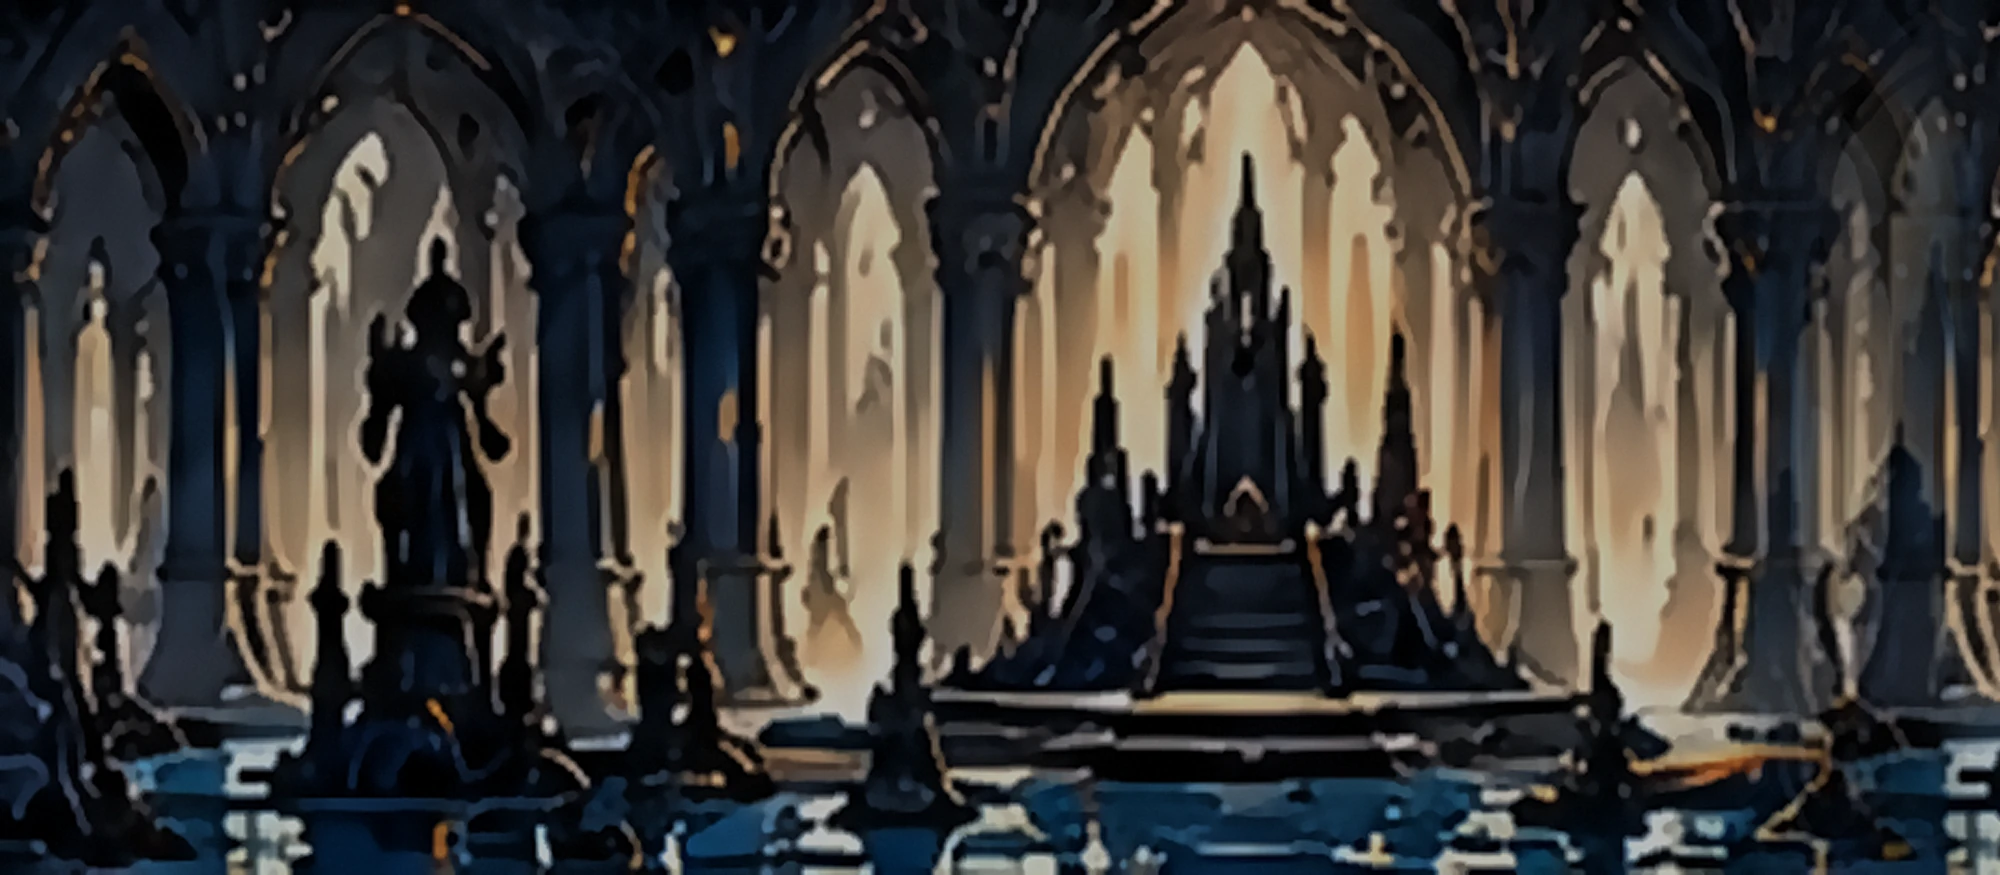
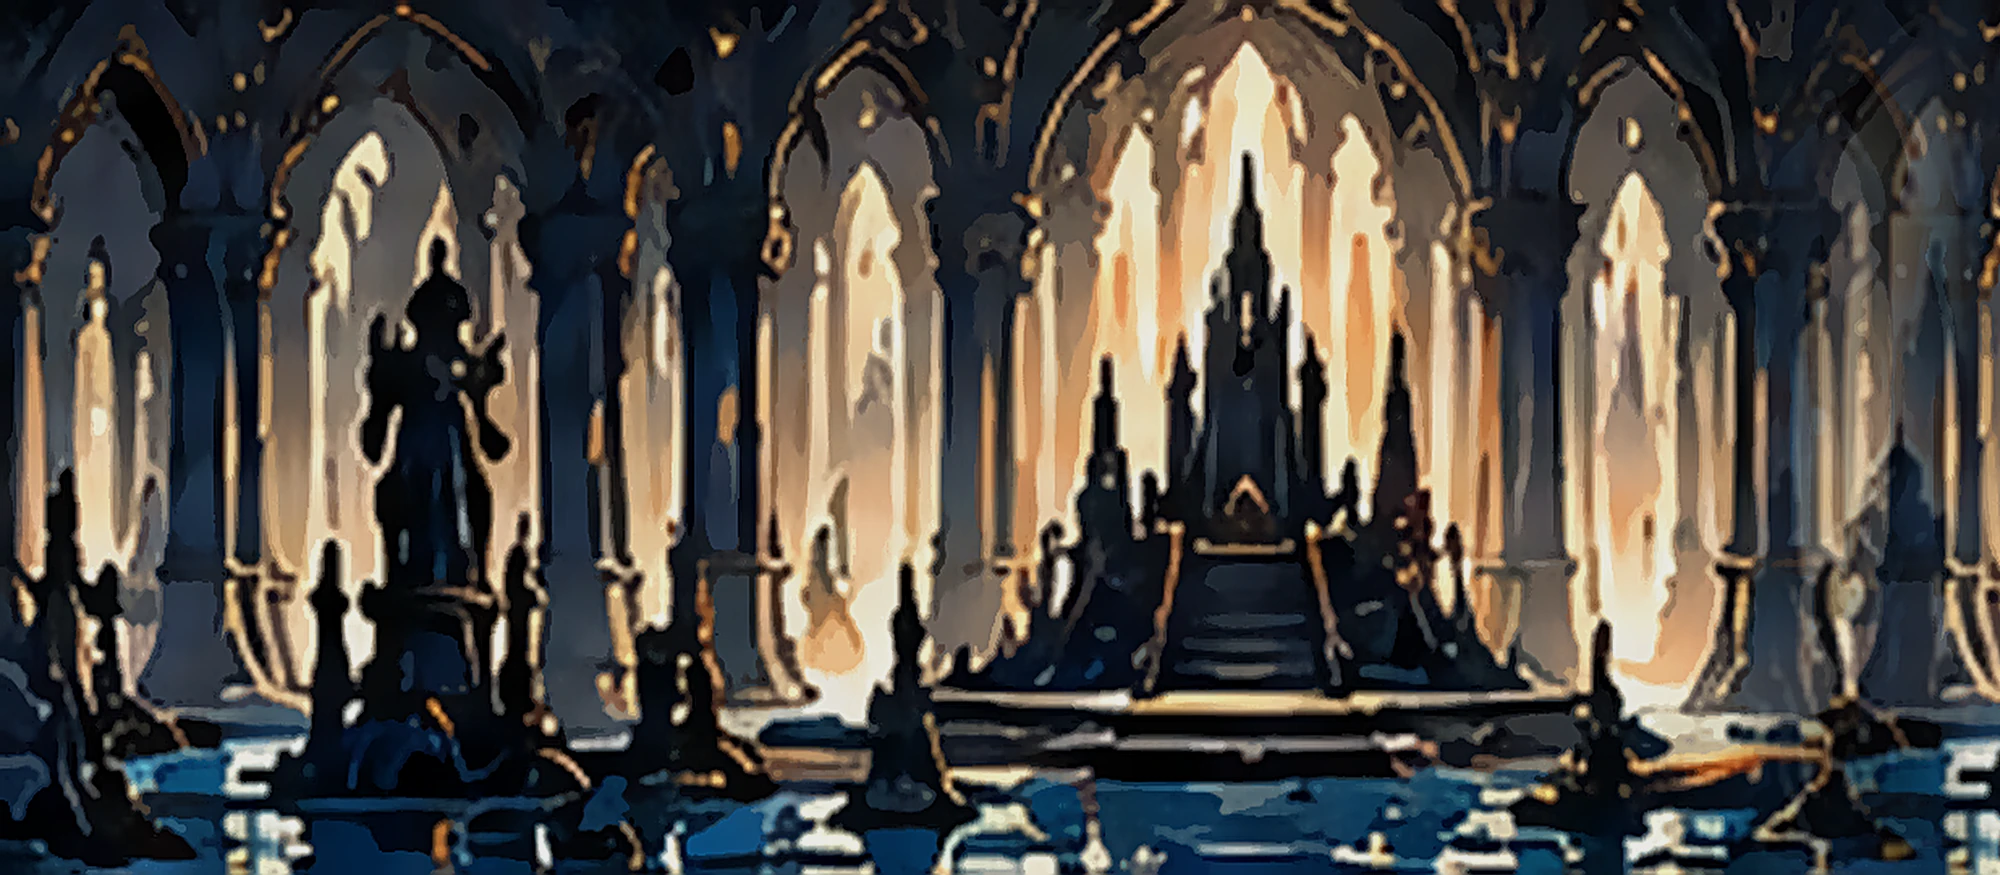
Backgrounds and borders made clear: cel-flattened concept pictures with firm edges, thinner overlay layers, lighter textured rock and light lines on both sides of every terrain border
Claude-Session: https://claude.ai/code/session_014C3QCoNRwGQxttT4zUyKpo

diff --git a/duskwell/js/art_world.js b/duskwell/js/art_world.js
@@ -81,10 +81,10 @@ Art.renderLevel = function (L, s) {
     for (let j = -2; j <= 2; j++) for (let i = -2; i <= 2; i++) if (!isS(x + i, y + j)) air++;
     const v = hash2(x, y, seed);
     const depth = clamp(air / 10, 0, 1);
-    g.fillStyle = mix(mix(th.tile, '#000000', 0.42 - depth * 0.26), th.hi, v * 0.018);
+    g.fillStyle = mix(mix(th.tile, '#000000', 0.26 - depth * 0.16), th.hi, 0.06 + v * 0.035);
     g.fillRect(x * TILE - 0.5, y * TILE - 0.5, TILE + 1, TILE + 1);
-    if (v > 0.6 && depth > 0.2) {            // rounded pebbles in the rock face
-      g.fillStyle = rgba(th.hi, 0.05); ellipse(g, x * TILE + 8 + v * 16, y * TILE + 10 + v * 10, 6 + v * 5, 4 + v * 3); g.fill();
+    if (v > 0.45) {                           // rounded pebbles in the rock face, also deep inside so a mass of rock is never a flat black
+      g.fillStyle = rgba(th.hi, 0.08 + depth * 0.03); ellipse(g, x * TILE + 8 + v * 16, y * TILE + 10 + v * 10, 6 + v * 5, 4 + v * 3); g.fill();
       g.strokeStyle = 'rgba(0,0,0,0.25)'; g.lineWidth = 1.5; g.stroke();
     }
   }
@@ -114,6 +114,20 @@ Art.renderLevel = function (L, s) {
     if (eB) { g.moveTo(px, py + TILE + wob(x, y + 1)); g.lineTo(px + TILE, py + TILE + wob(x + 1, y + 1)); }
     if (eL) { g.moveTo(px + wob(x, y + 3), py); g.lineTo(px + wob(x, y + 4), py + TILE); }
     if (eR) { g.moveTo(px + TILE + wob(x + 1, y + 3), py); g.lineTo(px + TILE + wob(x + 1, y + 4), py + TILE); }
+    g.stroke();
+    // the border read clearly against any background: a light line just inside the ink, and a faint light line just outside it
+    g.lineCap = 'round';
+    g.strokeStyle = rgba(th.hi, 0.5); g.lineWidth = 1.6; g.beginPath();
+    if (!eT) { /* the top rim is drawn above */ } else { g.moveTo(px + 1, py + 4.5); g.lineTo(px + TILE - 1, py + 4.5); }
+    if (eL) { g.moveTo(px + 4.5, py + (eT ? 6 : 0)); g.lineTo(px + 4.5, py + TILE - (eB ? 6 : 0)); }
+    if (eR) { g.moveTo(px + TILE - 4.5, py + (eT ? 6 : 0)); g.lineTo(px + TILE - 4.5, py + TILE - (eB ? 6 : 0)); }
+    if (eB) { g.moveTo(px + 1, py + TILE - 4.5); g.lineTo(px + TILE - 1, py + TILE - 4.5); }
+    g.stroke();
+    g.strokeStyle = rgba(th.hi, 0.3); g.lineWidth = 1.4; g.beginPath();
+    if (eT) { g.moveTo(px, py - 3.4); g.lineTo(px + TILE, py - 3.4); }
+    if (eL) { g.moveTo(px - 3.4, py); g.lineTo(px - 3.4, py + TILE); }
+    if (eR) { g.moveTo(px + TILE + 3.4, py); g.lineTo(px + TILE + 3.4, py + TILE); }
+    if (eB) { g.moveTo(px, py + TILE + 3.4); g.lineTo(px + TILE, py + TILE + 3.4); }
     g.stroke();
     themeDetail(g, th, L, x, y, px, py, v, eT, eB, isS);
     if (L.isIce(x, y)) {                         // slippery ice: a pale glaze with a bright streak
@@ -408,7 +422,7 @@ function drawCritters(g, th, camX, camY, t) {
 const PAINT_P = 1600, PAINT_H = 700, PAINT_TOP = -40, SKY_Z = 160, PAINT_KEEP = 3;
 // The sky layer of these areas is the owner's concept picture (tools/paint/import_concept.py): a whole scene, so the painted
 // silhouette layers over it are thinned (alpha per layer: sky, far, mid, near) to let it show while the play field stays readable.
-const CONCEPT_ALPHA = { default: [1, 0, 0.5, 0.85] };
+const CONCEPT_ALPHA = { default: [1, 0, 0.2, 0.35] };
 for (const k of ['town', 'cave', 'moss', 'spore', 'aqueduct', 'crystal', 'webbed', 'foundry', 'throne', 'frost', 'ember', 'storm', 'mirror', 'bone', 'lunar']) CONCEPT_ALPHA[k] = CONCEPT_ALPHA.default;
 const painted = new Map();             // theme -> { imgs, n, ready }, most recently used last
 Art.loadPainted = function (theme) {

diff --git a/duskwell/tools/paint/import_concept.py b/duskwell/tools/paint/import_concept.py
@@ -2,7 +2,7 @@
 """Turns the owner's background concept sheet (art/source/backgrounds_concept/sheet_all15_areas.png: 15 areas, each a wide picture
 plus Sky/Far/Mid/Near strips) into the game's backdrop layers.
 The strips are only ~140x30 px and carry their own opaque sky, so they cannot serve as layers; the big picture of each area (about
-315x129 px) is what is used: cropped, upscaled with a sharpened bicubic, given a fine painted grain, made to tile sideways, darkened
+315x129 px) is what is used: cropped, upscaled with a sharpened bicubic, flattened into clean cel colours with firm edges, made to tile sideways, darkened
 a little so the play field stays readable, and saved as art/bg/<theme>/sky.webp (the opaque back layer, 2000x875 = 1600x700 logical).
 Row 5 of the sheet was squeezed vertically in the original image; it is stretched back.
 usage: import_concept.py [theme ...]   (default: all)"""
@@ -16,7 +16,8 @@ SHEET = os.path.join(ROOT, 'art', 'source', 'backgrounds_concept', 'sheet_all15_
 AREAS = {'town': (0, 0), 'cave': (1, 0), 'moss': (2, 0), 'spore': (0, 1), 'aqueduct': (1, 1), 'crystal': (2, 1), 'webbed': (0, 2), 'foundry': (1, 2), 'throne': (2, 2),
          'frost': (0, 3), 'ember': (1, 3), 'storm': (2, 3), 'mirror': (0, 4), 'bone': (1, 4), 'lunar': (2, 4)}
 ROW_Y = [0, 222, 444, 666, 870]
-DIM = {'town': 0.78, 'cave': 0.8, 'moss': 0.82, 'spore': 0.74, 'aqueduct': 0.8, 'crystal': 0.8, 'webbed': 0.78, 'foundry': 0.72, 'throne': 0.74, 'frost': 0.85, 'ember': 0.72, 'storm': 0.8, 'mirror': 0.8, 'bone': 0.8, 'lunar': 0.8}
+DIM = {k: 0.92 for k in AREAS}
+DIM.update({'frost': 0.88, 'ember': 0.84, 'foundry': 0.86, 'spore': 0.88})
 
 def picture(sheet, col, row):
     x0 = col * 512
@@ -32,15 +33,14 @@ def picture(sheet, col, row):
     return pic
 
 def upscale(pic, W=2000, H=875):
-    """denoise the small picture, enlarge it 3x, smooth it with an edge-preserving filter (a painterly look instead of the blocky
-    mosaic that plain enlargement shows), then to the layer size with a light sharpen"""
+    """enlarge 4x, flatten the colours with a mean-shift (the cel look: clean areas with firm edges instead of the mush that a plain
+    enlargement or a blur-heavy denoise gives), down to the layer size with Lanczos, then sharpen the edges"""
     import cv2
     x = cv2.cvtColor(np.asarray(pic), cv2.COLOR_RGB2BGR)
-    x = cv2.fastNlMeansDenoisingColored(x, None, 6, 6, 5, 15)
-    x = cv2.resize(x, None, fx=3, fy=3, interpolation=cv2.INTER_CUBIC)
-    for _ in range(2): x = cv2.bilateralFilter(x, 9, 32, 6)
-    x = cv2.resize(x, (W, H), interpolation=cv2.INTER_CUBIC)
-    x = cv2.addWeighted(x, 1.55, cv2.GaussianBlur(x, (0, 0), 2.2), -0.55, 0)
+    x = cv2.resize(x, None, fx=4, fy=4, interpolation=cv2.INTER_CUBIC)
+    x = cv2.pyrMeanShiftFiltering(x, 9, 22)
+    x = cv2.resize(x, (W, H), interpolation=cv2.INTER_LANCZOS4)
+    x = cv2.addWeighted(x, 2.3, cv2.GaussianBlur(x, (0, 0), 2.0), -1.3, 0)
     return Image.fromarray(cv2.cvtColor(x, cv2.COLOR_BGR2RGB))
 
 def seamless(a, frac=0.14):
@@ -65,7 +65,7 @@ def main():
     for th in themes:
         col, row = AREAS[th]
         pic = picture(sheet, col, row); pic.save(os.path.join(src, th + '.png'))
-        a = grain(seamless(upscale(pic)))
+        a = seamless(upscale(pic))
         a = Image.fromarray(np.clip(np.asarray(a).astype(np.float32) * DIM[th], 0, 255).astype(np.uint8))
         out = os.path.join(ROOT, 'art', 'bg', th); os.makedirs(out, exist_ok=True)
         a.save(os.path.join(out, 'sky.webp'), quality=90, method=6)

diff --git a/duskwell/README.md b/duskwell/README.md
@@ -32,7 +32,7 @@
 - **نداء الغسق (↑ + F):** التعويذة الثالثة بعد كرة الروح والانقضاض. يبيعها التاجر بـ 500 جيو: تتجمّد في مكانك ويقوم عمود نور فوقك يضرب كل ما فيه خمس مرات ويحبسه داخله، ويتوقف عند أول سقف. ويكلّف روحاً مثل بقية التعاويذ.
 - **التمائم (Charms):** 21 تميمة أصلية بأسماء وتصاميم من عندنا، كل واحدة تغيّر طريقة اللعب: نصل طويل، ضربة الريح، ماصّة الروح، تركيز سريع، تركيز عميق، عباءة الشوك، حذاء الريح، سيّد الاندفاع، حجر الساحر، صدى الألم، مغناطيس الجيو، اقتصاد الروح، غضب الأخير، ودرع الصدفة، ونعل المسامير (لا انزلاق على الجليد)، وفتيل الفانوس (ضوء أوسع)، ونصل الجمر (كل ضربة تترك حرقاً يؤذي العدو بعد لحظة)، وعباءة العاصفة، وصدى النصل. لكل تميمة تكلفة بالفتحات؛ تبدأ بثلاث فتحات، وتزيد واحدة مع كل ختمين من أختام الحرّاس، وللتاجر فتحتان إضافيتان. إن ارتديت أكثر من الفتحات تصير «مُثقَلاً» وتكلّفك كل إصابة الضعف. تُبدَّل التمائم من قائمة الإيقاف ← التمائم، وأنت جالس على مقعد فقط. تسع منها مخبّأة في زوايا العالم (بجوار الكنوز)، وسبع يُسقطها الحرّاس (ماصّة الروح، اقتصاد الروح، التركيز العميق، وفتيل الفانوس من ملكة الصقيع، ونصل الجمر من العملاق الجمري، وعباءة العاصفة من طائر العاصفة، وصدى النصل من توأم الجوّال)، وثلاث يبيعها التاجر (نصل طويل، حذاء الريح، مغناطيس الجيو). الكود في `js/charms.js` ورسم الأيقونات في `js/art_charms.js`.
 - موسيقى أوركسترالية مسجّلة: 21 مقطوعة أصلية (افتتاحية أوركسترالية كبرى لشاشة البداية، وخاتمة منتصرة، ومقطوعة لكل منطقة بما فيها المقبرة العظمية القوطية بالأرغن والجوقة ومرصد القمر الراقص بالفالس، مقطوعة لكل منطقة بما فيها ريمكرست البلّورية وسيندرديب الثقيلة وذرى العاصفة المندفعة وقبو المرايا الزجاجي، وثلاث معارك للزعماء: العامة والملك الأخير ومعركتا المقبرة والمرصد) تتكرر بلا انقطاع وتتبدّل بمزج تدريجي.
-- **خلفيات المناطق الخمس عشرة من رسمك:** الطبقة الخلفية لكل منطقة هي صورة المنطقة من ورقة الخلفيات (`art/source/backgrounds_concept/sheet_all15_areas.png`)، مقصوصة ومنظَّفة من التشويش ومكبَّرة بفلتر يحفظ الحواف (مظهر لوحة زيتية بدل المربعات)، ومعتمة قليلاً لتبقى ساحة اللعب مقروءة، وتتكرر أفقياً بلا حدود (`tools/paint/import_concept.py`). الطبقات القديمة المرسومة بالكود فوقها أخفّ: البعيدة مخفية والمتوسطة نصف شفافة والقريبة 85%. شرائط Sky/Far/Mid/Near في الورقة صغيرة جداً (نحو 140×30 بكسل) وفيها سماؤها الخاصة، فلا تصلح طبقات، وهي محفوظة مرجعاً. شاشة البداية بقيت بخلفيتها السابقة.
+- **خلفيات المناطق الخمس عشرة من رسمك:** الطبقة الخلفية لكل منطقة هي صورة المنطقة من ورقة الخلفيات (`art/source/backgrounds_concept/sheet_all15_areas.png`)، مقصوصة ومكبَّرة 4 مرات ومسطَّحة الألوان بـmean-shift (مظهر رسم كرتوني بحواف واضحة بدل البقع)، ومعتمة قليلاً جداً لتبقى ساحة اللعب مقروءة، وتتكرر أفقياً بلا حدود (`tools/paint/import_concept.py`). الطبقات القديمة المرسومة بالكود فوقها أخفّ: البعيدة مخفية والمتوسطة 20% والقريبة 35%. وحدود الأرض والجدران لها الآن خط ضوء داخل الحبر وخط أخفّ خارجه وصخر أفتح بملمس حصى، فتُقرأ على أي خلفية. شرائط Sky/Far/Mid/Near في الورقة صغيرة جداً (نحو 140×30 بكسل) وفيها سماؤها الخاصة، فلا تصلح طبقات، وهي محفوظة مرجعاً. شاشة البداية بقيت بخلفيتها السابقة.
 - خلفيات مرسومة عالية الدقة (الطبقات الأمامية والمتوسطة): سماء وثلاث طبقات عمق لكل منطقة ولشاشة البداية، بحواف عضوية وضربات فرشاة وإضاءة حافّات وضباب جوّي.
 
 ## معرض الصور
